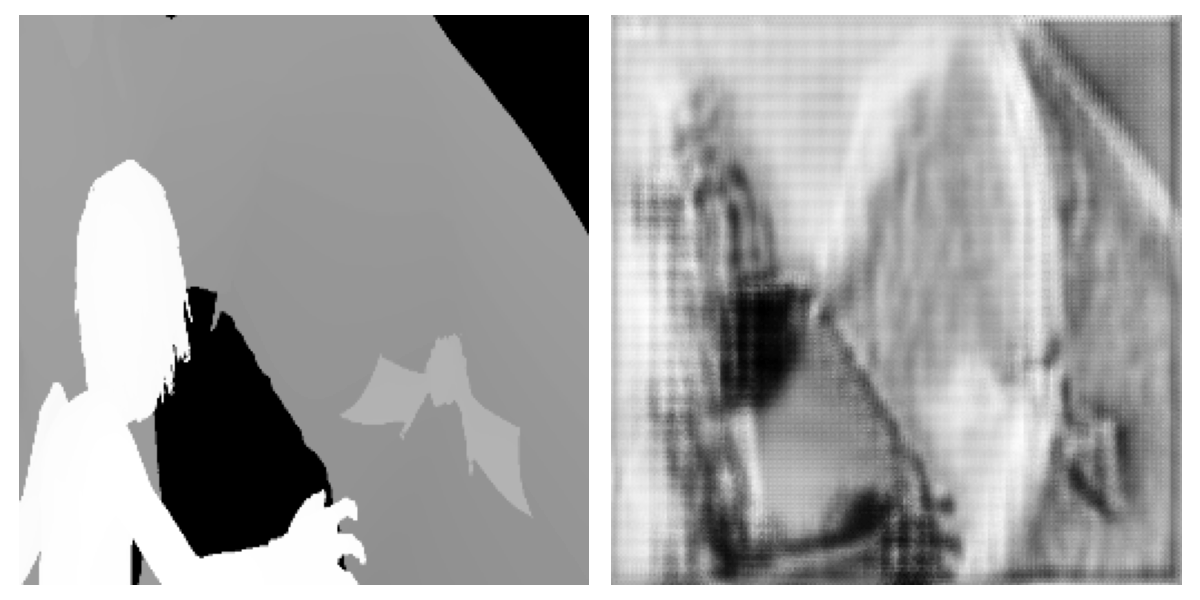
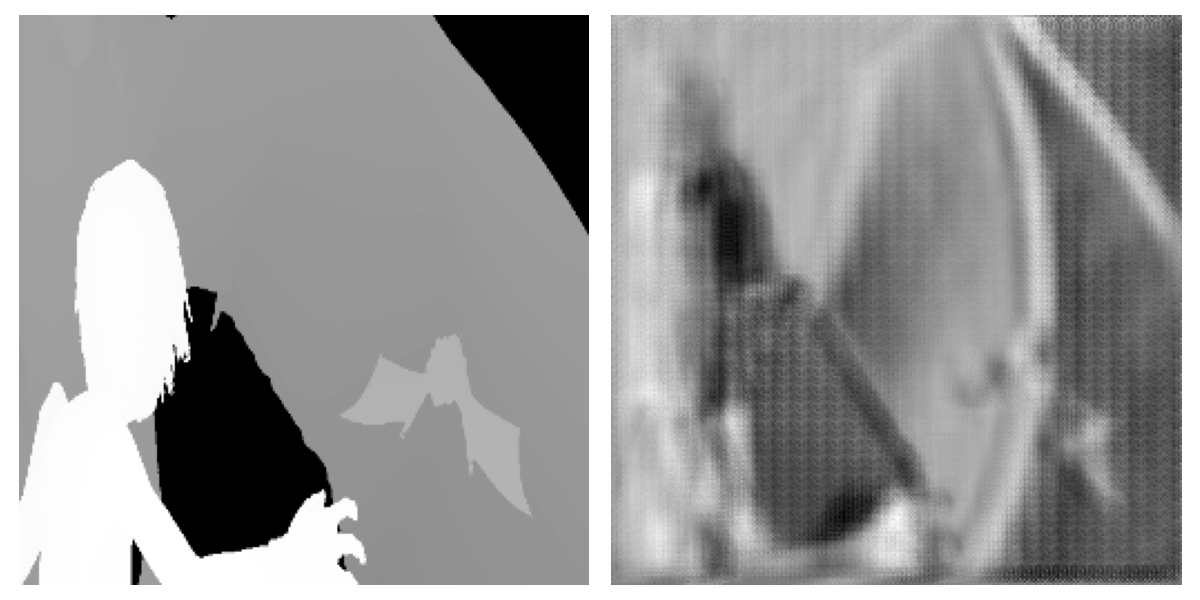
Best results

diff --git a/Scripts/pix2pix.py b/Scripts/pix2pix.py
@@ -48,7 +48,7 @@ def upsample(filters,
     if apply_dropout:
         pass
         result.add(Dropout(0.5))
-    result.add(ReLU())
+    # result.add(ReLU())
     return result
 
 def get_conv_layer(filters,
@@ -61,7 +61,7 @@ def get_conv_layer(filters,
                kernel_initializer=initializer,
                ),
         BatchNormalization(),
-        ReLU(),
+        # ReLU(),
     ])
     return result
 
@@ -96,7 +96,7 @@ def downsample(filters,
     if apply_batchnorm:
         pass
         result.add(BatchNormalization())
-    result.add(LeakyReLU())
+    # result.add(LeakyReLU())
     return result
 
 
@@ -225,8 +225,8 @@ def Discriminator() -> Model:
                   use_bias=False)(zero_pad1)
     batchnorm1 = BatchNormalization()(conv)
     # batchnorm1=conv
-    # leaky_relu = batchnorm1
-    leaky_relu = LeakyReLU()(batchnorm1)
+    leaky_relu = batchnorm1
+    # leaky_relu = LeakyReLU()(batchnorm1)
     # (batch_size, 33, 33, 512)
     zero_pad2 = ZeroPadding2D()(leaky_relu)
     # (batch_size, 30, 30, 1)
